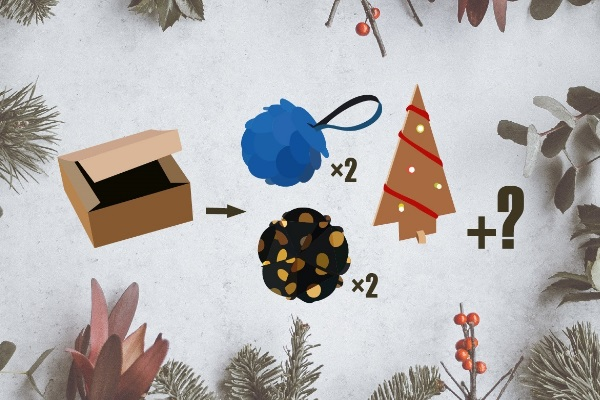
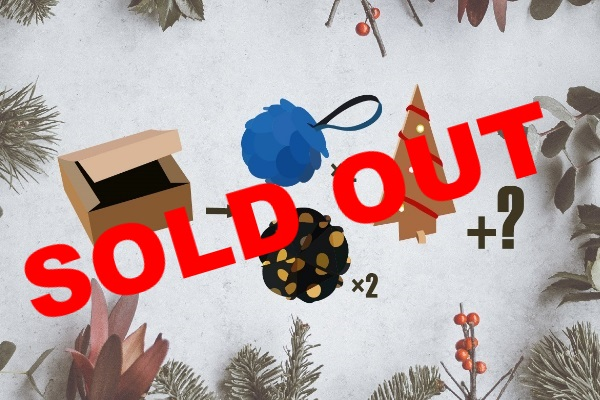
sold out

Changed region(s): [[0.03, 0.45, 0.51, 0.81], [0.54, 0.24, 0.93, 0.57]]

diff --git a/index.html b/index.html
@@ -315,7 +315,7 @@
                             <div class="col-md-3">
                                 <strong class="bold text-right form-content" id="price">TOTAL : 19.99€</strong>
                                 <div class="text-right">
-                                    <button type="submit" id="mySubmit" class="btn btn-primary">Confirmer</button>
+                                    <button type="submit" id="mySubmit" class="btn btn-primary" disabled>Confirmer</button>
                                     <div class="col text-center load-wrapp">
                                         <div class="load-3" id="loading-register">
                                             <div class="line"></div>
